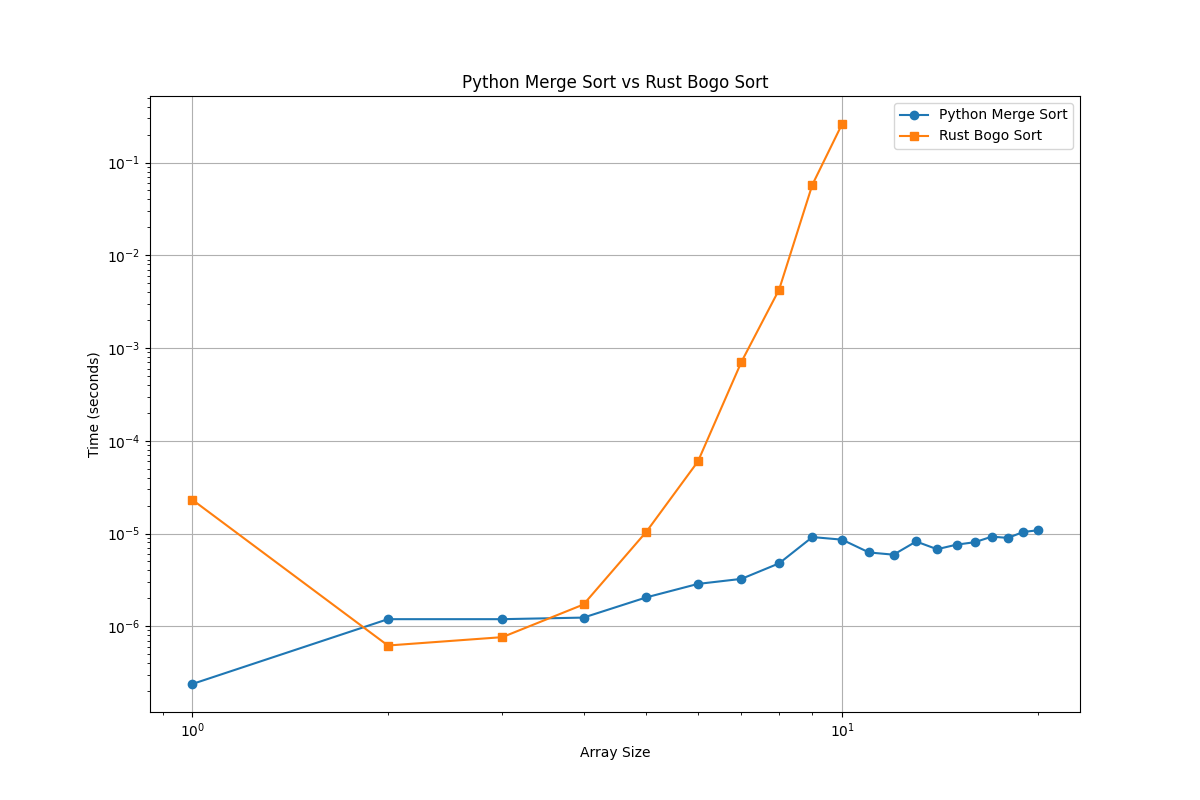
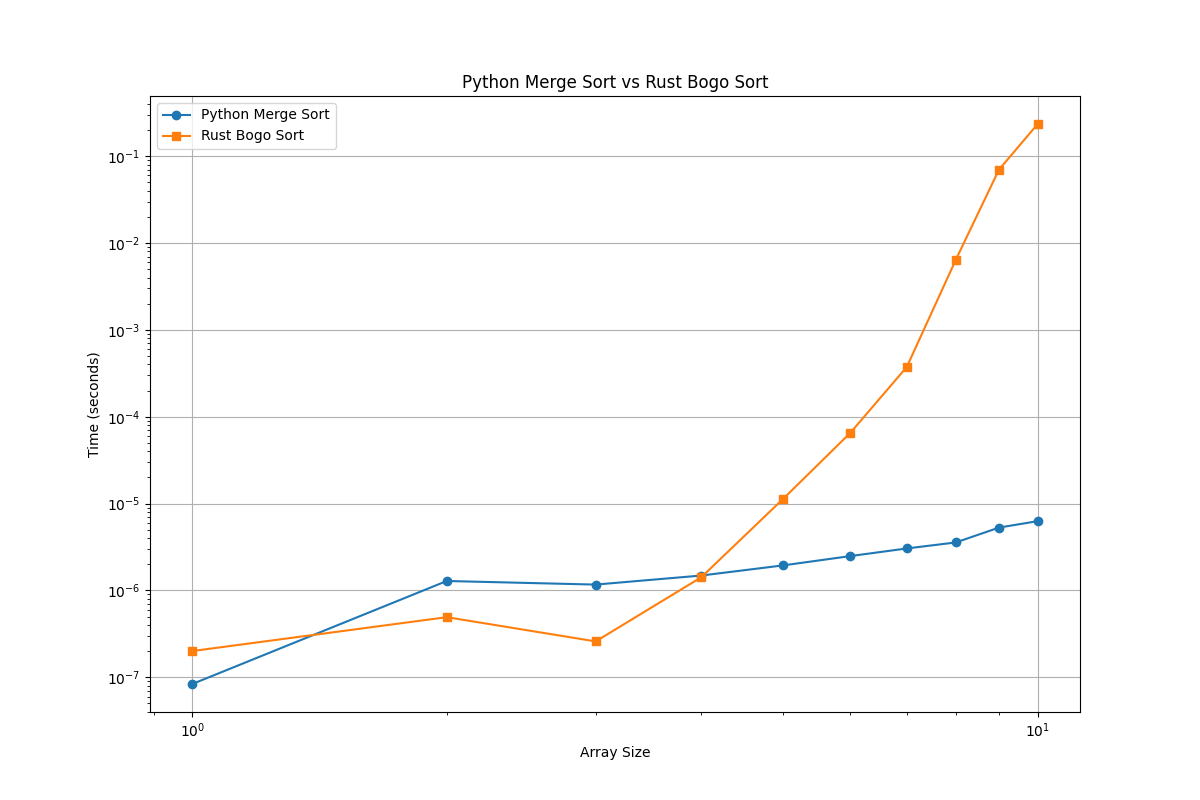
Simplified and fast benchmarking

diff --git a/benchmark.py b/benchmark.py
@@ -1,5 +1,5 @@
-import signal
 import time
+from typing import List, Tuple, Callable
 
 import matplotlib.pyplot as plt
 
@@ -7,91 +7,60 @@ from src.merge_sort import merge_sort, generate_random_array
 from sorting_comparison import bogo_sort
 
 
-class TimeoutException(Exception):
-    pass
-
-
-def timeout_handler(signum, frame):
-    raise TimeoutException()
-
-
-def time_sort_with_timeout(sort_func, arr, timeout=5):
-    signal.signal(signal.SIGALRM, timeout_handler)
-    signal.alarm(timeout)
+def time_sort(sort_func: Callable, arr: List[int], max_time: float = 0.1) -> Tuple[float, bool]:
+    """Time a sorting function with a maximum time limit."""
+    start_time = time.perf_counter()
     try:
-        start_time = time.time()
-        sort_func(arr)
-        end_time = time.time()
-        signal.alarm(0)  # Reset the alarm
-        return end_time - start_time
-    except TimeoutException:
-        return float("inf")
+        sorted_arr = sort_func(arr.copy())
+        duration = time.perf_counter() - start_time
+        if duration > max_time or sorted_arr != sorted(arr):
+            return duration, False
+        return duration, True
+    except Exception:
+        return max_time, False
 
 
-def find_crossover_point(max_size=20, step=1, runs=5, bogo_max_size=10):
+def quick_benchmark(sort_func: Callable, size: int, runs: int = 3, max_time: float = 0.1) -> float:
+    """Run a quick benchmark for a sorting function."""
+    total_time = 0
+    for _ in range(runs):
+        duration, success = time_sort(sort_func, generate_random_array(size), max_time)
+        if not success:
+            return max_time
+        total_time += duration
+    return total_time / runs
+
+
+def benchmark_sorting(max_size: int = 20, step: int = 1) -> Tuple[List[int], List[float], List[float]]:
+    """Benchmark merge sort and bogo sort."""
     sizes = list(range(1, max_size + 1, step))
-    merge_times = []
-    bogo_times = []
-    crossover_found = False
+    merge_times, bogo_times = [], []
 
+    print("Benchmarking...")
     for size in sizes:
-        print(f"\nTesting array size: {size}")
-        merge_time = 0
-        bogo_time = 0
-        for run in range(runs):
-            arr = generate_random_array(size)
-            arr_copy = arr.copy()
+        merge_time = quick_benchmark(merge_sort, size)
+        bogo_time = quick_benchmark(bogo_sort, size)
+        
+        merge_times.append(merge_time)
+        bogo_times.append(bogo_time)
+        
+        print(f"Size {size}: Merge Sort: {merge_time:.6f}s, Bogo Sort: {bogo_time:.6f}s")
+        
+        if bogo_time >= 0.1:
+            print("Bogo Sort reached time limit. Stopping Bogo Sort benchmarking.")
+            break
 
-            # Time and verify Merge Sort
-            merge_start = time.time()
-            merge_sorted = merge_sort(arr)
-            merge_end = time.time()
-            merge_run_time = merge_end - merge_start
-            merge_time += merge_run_time
-            print(f"  Merge Sort Run {run+1}: {merge_run_time:.6f} seconds")
-            assert merge_sorted == sorted(arr), "Merge Sort failed to sort correctly"
-
-            # Time and verify Bogo Sort (only for small sizes)
-            if size <= bogo_max_size:
-                bogo_start = time.time()
-                bogo_sorted = bogo_sort(arr_copy)
-                bogo_end = time.time()
-                bogo_run_time = bogo_end - bogo_start
-                bogo_time += bogo_run_time
-                print(f"  Bogo Sort Run {run+1}: {bogo_run_time:.6f} seconds")
-                assert bogo_sorted == sorted(
-                    arr_copy
-                ), "Bogo Sort failed to sort correctly"
-
-        merge_times.append(merge_time / runs)
-        if size <= bogo_max_size:
-            bogo_times.append(bogo_time / runs)
-            if not crossover_found and merge_times[-1] < bogo_times[-1]:
-                print(f"Crossover point found at array size: {size}")
-                crossover_found = True
-
-        print(f"Average Merge Sort time: {merge_times[-1]:.6f} seconds")
-        if size <= bogo_max_size:
-            print(f"Average Bogo Sort time: {bogo_times[-1]:.6f} seconds")
-
-    # Pad bogo_times with infinity for the sizes we didn't test
-    bogo_times.extend([float("inf")] * (len(sizes) - len(bogo_times)))
-
-    plot_results(sizes, merge_times, bogo_times)
+    return sizes[:len(bogo_times)], merge_times[:len(bogo_times)], bogo_times
 
 
-def plot_results(sizes, merge_times, bogo_times):
+def plot_results(sizes: List[int], merge_times: List[float], bogo_times: List[float]):
+    """Plot the benchmark results."""
     plt.figure(figsize=(12, 8))
     plt.loglog(sizes, merge_times, label="Python Merge Sort", marker="o")
-    plt.loglog(
-        sizes[: len([t for t in bogo_times if t != float("inf")])],
-        [t for t in bogo_times if t != float("inf")],
-        label="Rust Bogo Sort",
-        marker="s",
-    )
+    plt.loglog(sizes, bogo_times, label="Rust Bogo Sort", marker="s")
     plt.xlabel("Array Size")
     plt.ylabel("Time (seconds)")
-    plt.title("Python Merge Sort vs Rust Bogo Sort")
+    plt.title("Python Merge Sort vs Rust Bogo Sort (Quick Benchmark)")
     plt.legend()
     plt.grid(True)
     plt.savefig("assets/sorting_comparison.png")
@@ -99,4 +68,5 @@ def plot_results(sizes, merge_times, bogo_times):
 
 
 if __name__ == "__main__":
-    find_crossover_point()
+    sizes, merge_times, bogo_times = benchmark_sorting()
+    plot_results(sizes, merge_times, bogo_times)
